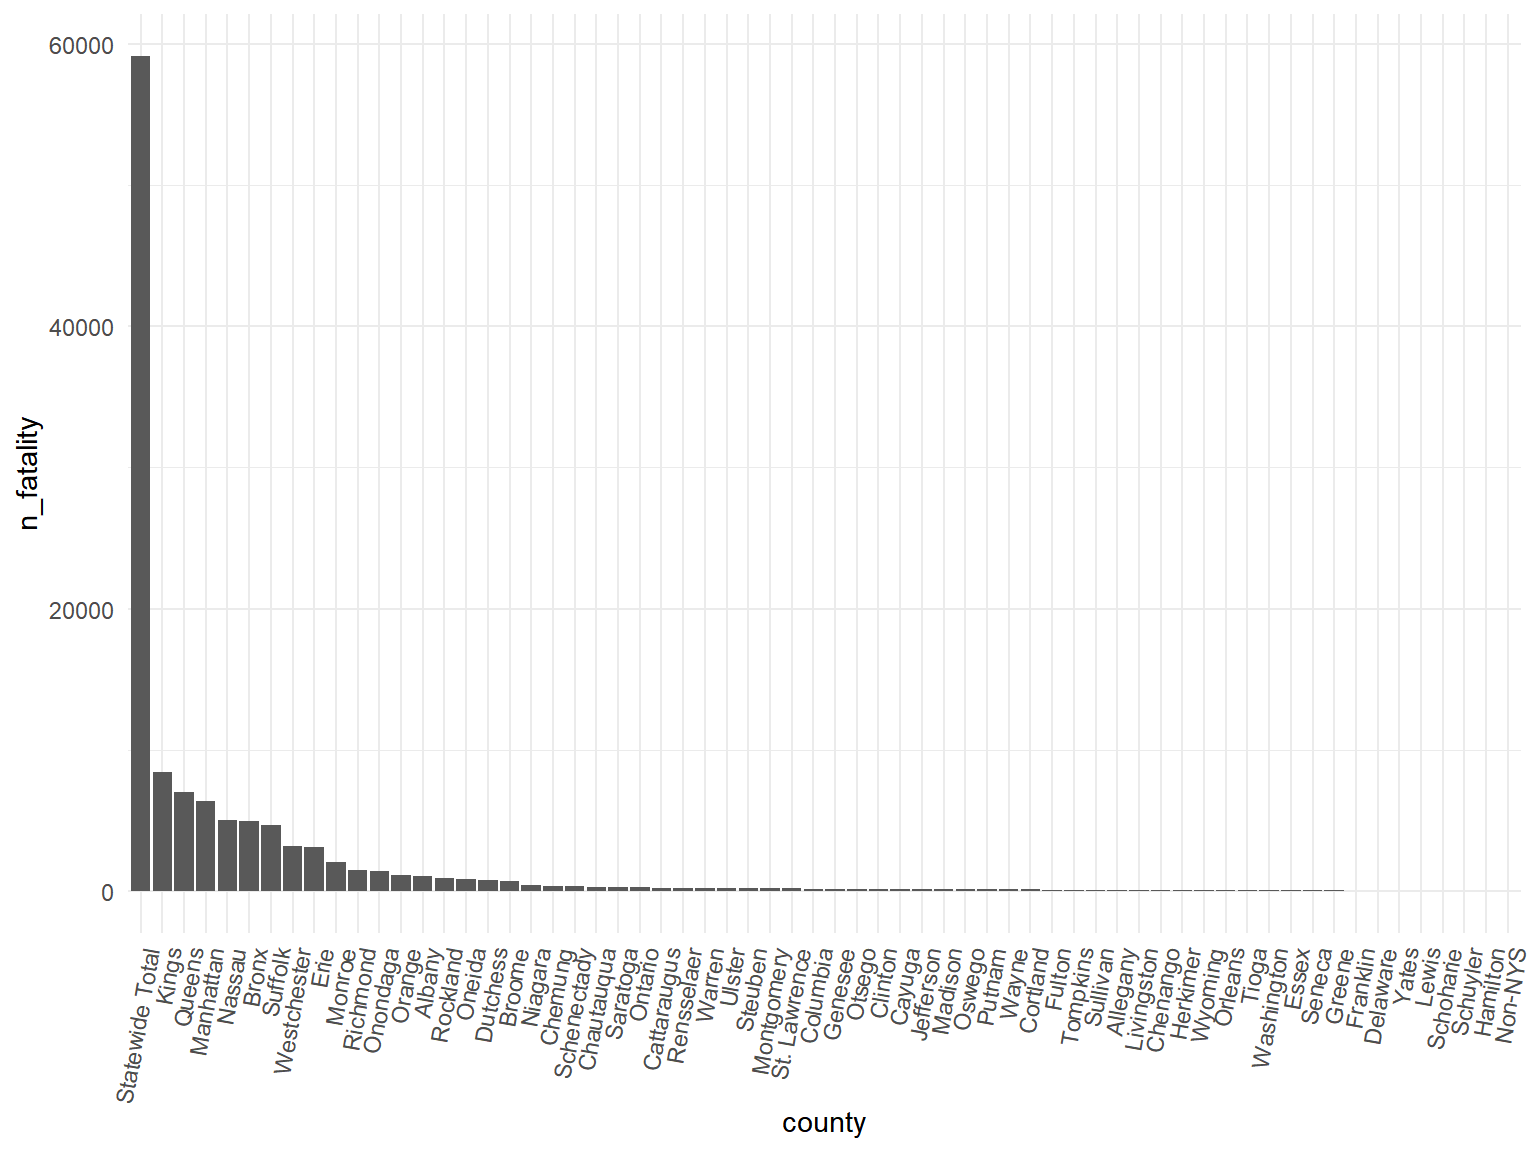
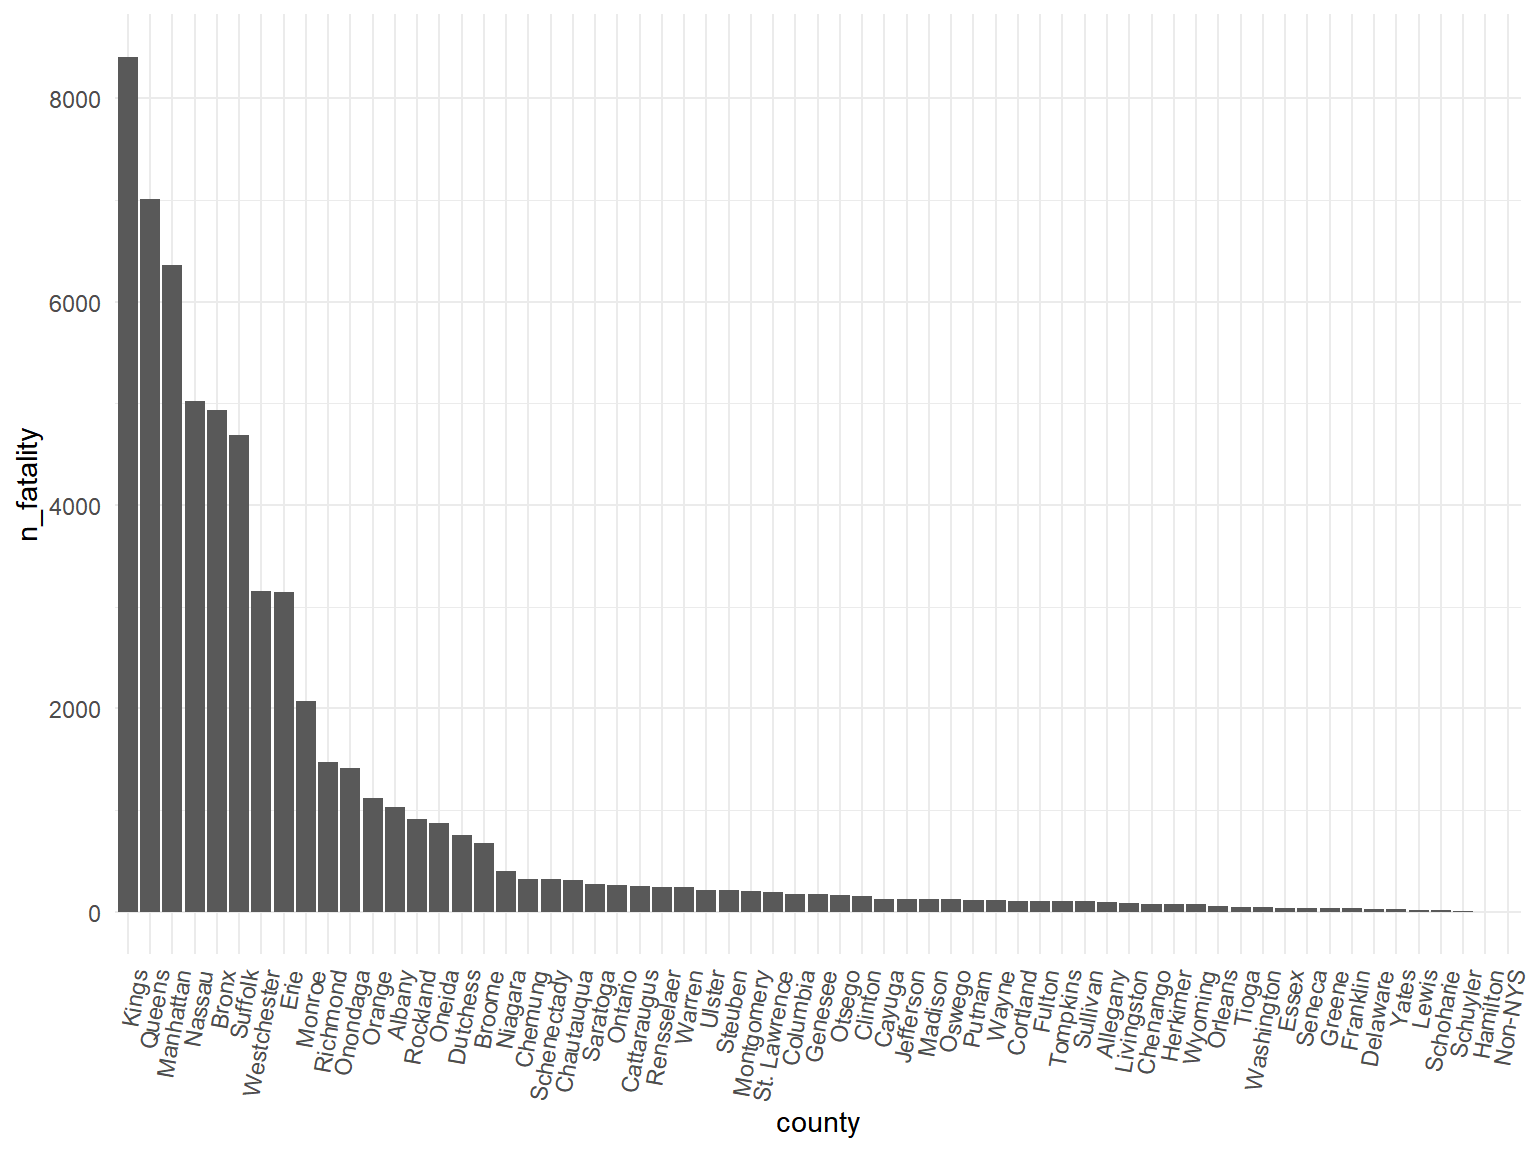
omitted the statewide total rows for covid deaths

Changed region(s): [[0.0, 0.0312, 1.0, 0.9688], [0.5, 0.9688, 0.5625, 1.0]]

diff --git a/Ashwini_exploratory_plot.html b/Ashwini_exploratory_plot.html
@@ -333,7 +333,8 @@ vax_plot_first</code></pre>
   janitor::clean_names() %&gt;%
   rename(date = report_date, n_fatality = place_of_fatality) %&gt;% 
   mutate(date = lubridate::mdy(date)) %&gt;%
-  select(-deaths_by_county_of_residence) </code></pre>
+  select(-deaths_by_county_of_residence) %&gt;%
+  filter(county != &quot;Statewide Total&quot;)</code></pre>
 <pre><code>## Rows: 57728 Columns: 4
 ## ── Column specification ────────────────────────────────────────────────────────
 ## Delimiter: &quot;,&quot;
